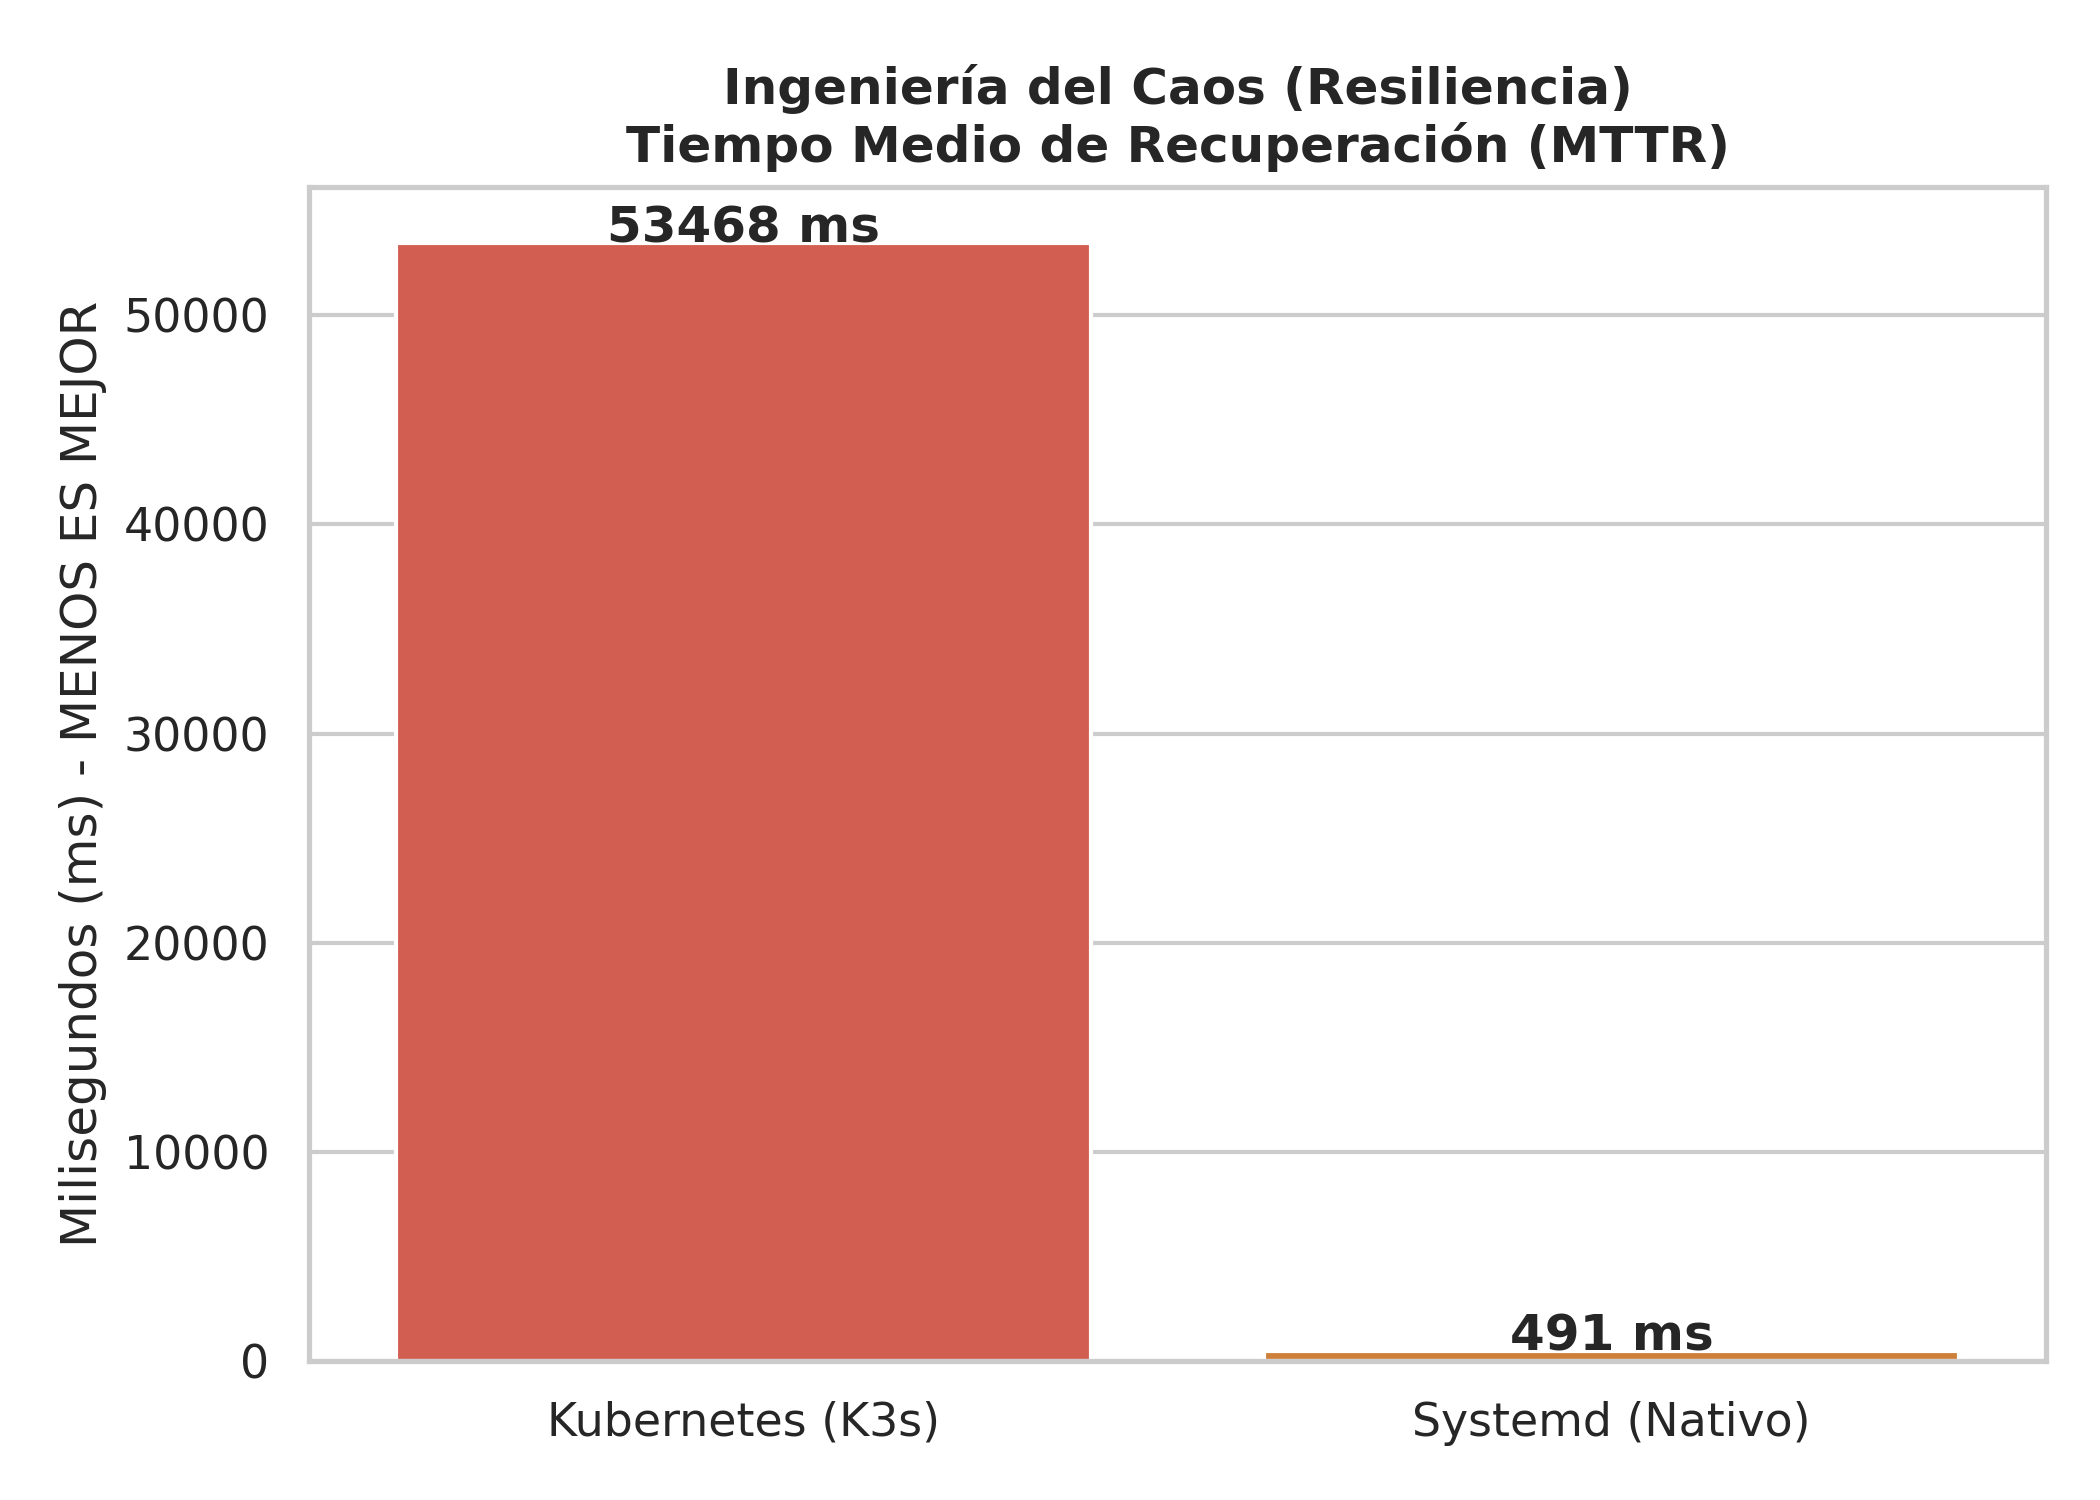
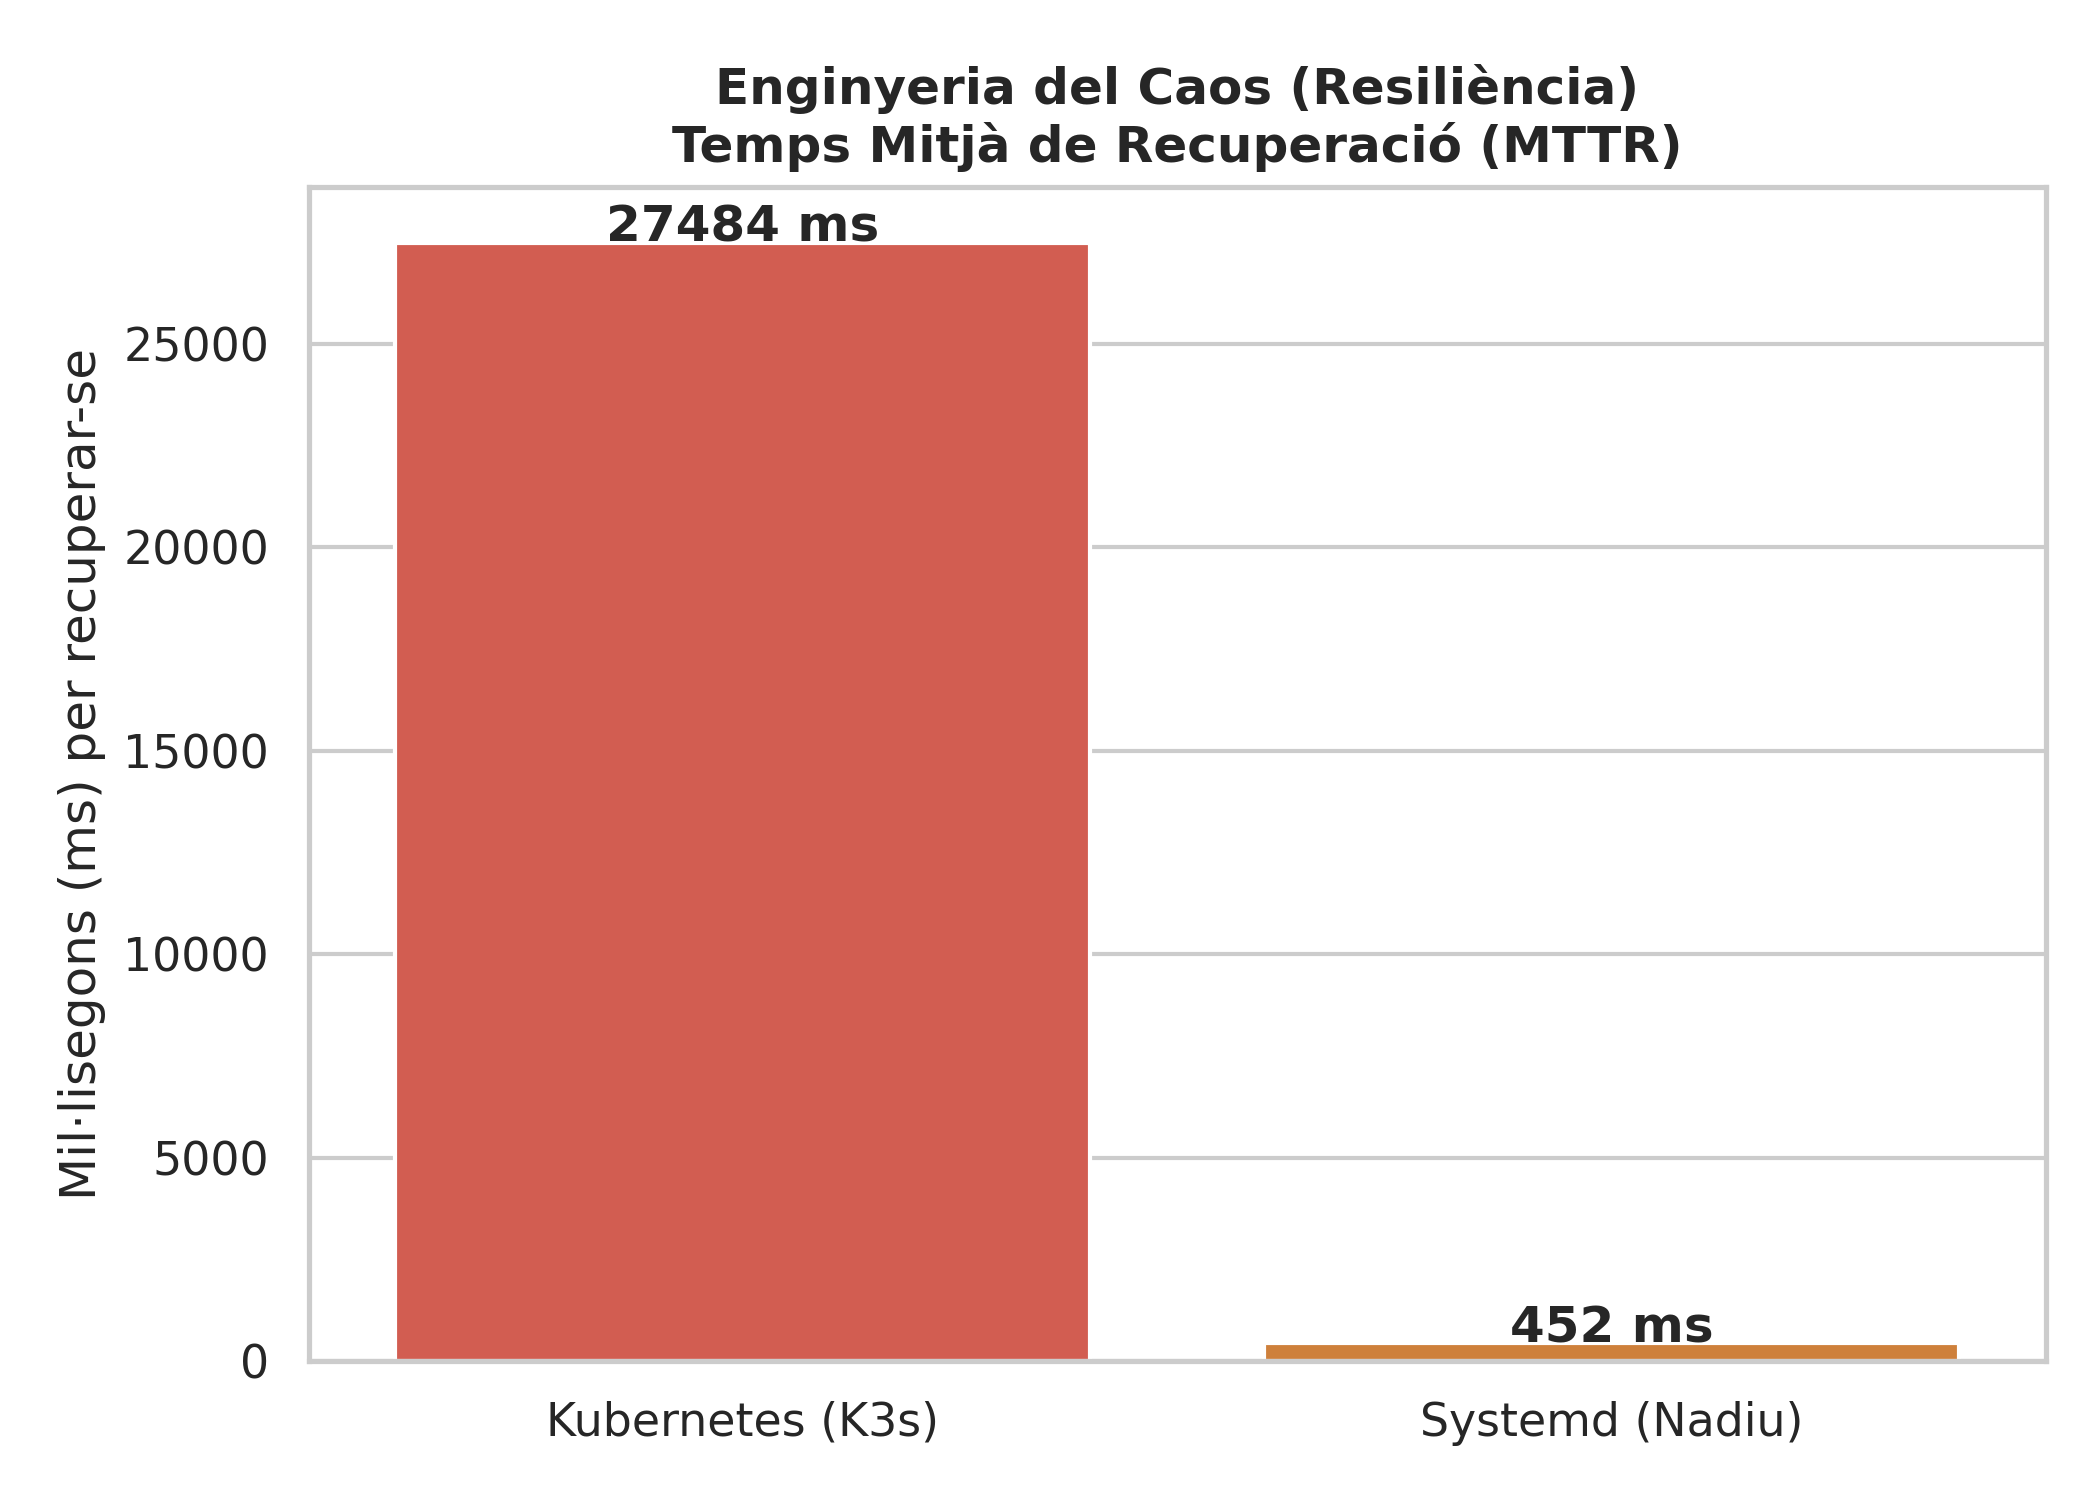
refactor: update benchmark results and visualizations for HTTP, gRPC, and ZeroMQ protocols

diff --git a/kubernetes/3-benchmarks-results/resultados-tablas-original.md b/kubernetes/3-benchmarks-results/resultados-tablas-original.md
@@ -1,90 +1,90 @@
 # Resultados Consolidados del Proyecto
 > **Nota:** Estas tablas representan la **media histórica total** de todas las ejecuciones almacenadas en el Data Lake (`resultados-globales.csv`).
 
-## Protocolo: 01-http-json (Basado en 5 tests históricos)
+## Protocolo: 01-http-json (Basado en 10 tests históricos)
 ### Infraestructura
 | Métrica | Valor Promedio |
 |---|---|
-| **T_deploy** | 104.84 s |
-| **Recuperación (MTTR)** | 1672.64 ms |
-| **CPU Reposo** | 1.10 % |
-| **RAM Reposo** | 851.10 MB |
+| **T_deploy** | 122.61 s |
+| **Recuperación (MTTR)** | 1606.99 ms |
+| **CPU Reposo** | 0.85 % |
+| **RAM Reposo** | 829.25 MB |
 
 ### Rendimiento de Red (Estrés)
 | Métrica | Valor Promedio |
 |---|---|
-| **T_Total** | 0.99 s |
-| **Throughput** | 2086.61 img/s |
-| **Latencia RTT** | 516.90 ms |
-| **T_Proc Worker** | 503.45 ms |
-| **RAM Máxima** | 337.30 MB |
-| **CPU Máxima** | 138.94 % |
+| **T_Total** | 1.02 s |
+| **Throughput** | 2015.11 img/s |
+| **Latencia RTT** | 538.51 ms |
+| **T_Proc Worker** | 525.76 ms |
+| **RAM Máxima** | 344.65 MB |
+| **CPU Máxima** | 137.55 % |
 | **Payload Red** | 15.59 MB |
 
 ---
 
-## Protocolo: 02-grpc-protobuf (Basado en 5 tests históricos)
+## Protocolo: 02-grpc-protobuf (Basado en 10 tests históricos)
 ### Infraestructura
 | Métrica | Valor Promedio |
 |---|---|
-| **T_deploy** | 131.58 s |
-| **Recuperación (MTTR)** | 1571.98 ms |
-| **CPU Reposo** | 1.00 % |
-| **RAM Reposo** | 849.00 MB |
-
-### Rendimiento de Red (Estrés)
-| Métrica | Valor Promedio |
-|---|---|
-| **T_Total** | 0.33 s |
-| **Throughput** | 6358.87 img/s |
-| **Latencia RTT** | 319.32 ms |
-| **T_Proc Worker** | 281.93 ms |
-| **RAM Máxima** | 392.79 MB |
-| **CPU Máxima** | 186.82 % |
-| **Payload Red** | 2.99 MB |
-
----
-
-## Protocolo: 03-zeromq-protobuf (Basado en 5 tests históricos)
-### Infraestructura
-| Métrica | Valor Promedio |
-|---|---|
-| **T_deploy** | 96.06 s |
-| **Recuperación (MTTR)** | 1643.34 ms |
-| **CPU Reposo** | 1.30 % |
-| **RAM Reposo** | 852.50 MB |
-
-### Rendimiento de Red (Estrés)
-| Métrica | Valor Promedio |
-|---|---|
-| **T_Total** | 0.31 s |
-| **Throughput** | 7033.38 img/s |
-| **Latencia RTT** | 263.85 ms |
-| **T_Proc Worker** | 201.72 ms |
-| **RAM Máxima** | 282.18 MB |
-| **CPU Máxima** | 194.28 % |
-| **Payload Red** | 2.99 MB |
-
----
-
-## Protocolo: 04-zeromq-messagepack (Basado en 5 tests históricos)
-### Infraestructura
-| Métrica | Valor Promedio |
-|---|---|
-| **T_deploy** | 137.91 s |
-| **Recuperación (MTTR)** | 53468.16 ms |
+| **T_deploy** | 135.09 s |
+| **Recuperación (MTTR)** | 26688.57 ms |
 | **CPU Reposo** | 0.80 % |
-| **RAM Reposo** | 852.00 MB |
+| **RAM Reposo** | 819.65 MB |
+
+### Rendimiento de Red (Estrés)
+| Métrica | Valor Promedio |
+|---|---|
+| **T_Total** | 0.34 s |
+| **Throughput** | 6356.45 img/s |
+| **Latencia RTT** | 323.57 ms |
+| **T_Proc Worker** | 289.91 ms |
+| **RAM Máxima** | 370.06 MB |
+| **CPU Máxima** | 178.39 % |
+| **Payload Red** | 2.99 MB |
+
+---
+
+## Protocolo: 03-zeromq-protobuf (Basado en 10 tests históricos)
+### Infraestructura
+| Métrica | Valor Promedio |
+|---|---|
+| **T_deploy** | 90.60 s |
+| **Recuperación (MTTR)** | 1604.90 ms |
+| **CPU Reposo** | 1.00 % |
+| **RAM Reposo** | 840.60 MB |
 
 ### Rendimiento de Red (Estrés)
 | Métrica | Valor Promedio |
 |---|---|
 | **T_Total** | 0.33 s |
-| **Throughput** | 6555.69 img/s |
-| **Latencia RTT** | 277.54 ms |
-| **T_Proc Worker** | 203.35 ms |
-| **RAM Máxima** | 275.12 MB |
-| **CPU Máxima** | 196.35 % |
+| **Throughput** | 6660.90 img/s |
+| **Latencia RTT** | 278.48 ms |
+| **T_Proc Worker** | 216.09 ms |
+| **RAM Máxima** | 284.07 MB |
+| **CPU Máxima** | 190.23 % |
+| **Payload Red** | 2.99 MB |
+
+---
+
+## Protocolo: 04-zeromq-messagepack (Basado en 10 tests históricos)
+### Infraestructura
+| Métrica | Valor Promedio |
+|---|---|
+| **T_deploy** | 145.16 s |
+| **Recuperación (MTTR)** | 27483.61 ms |
+| **CPU Reposo** | 0.80 % |
+| **RAM Reposo** | 834.40 MB |
+
+### Rendimiento de Red (Estrés)
+| Métrica | Valor Promedio |
+|---|---|
+| **T_Total** | 0.34 s |
+| **Throughput** | 6269.21 img/s |
+| **Latencia RTT** | 284.99 ms |
+| **T_Proc Worker** | 205.62 ms |
+| **RAM Máxima** | 280.90 MB |
+| **CPU Máxima** | 193.83 % |
 | **Payload Red** | 2.99 MB |
 
 ---

diff --git a/kubernetes/3-benchmarks-results/resultados-tablas.md b/kubernetes/3-benchmarks-results/resultados-tablas.md
@@ -67,24 +67,24 @@
 
 ---
 
-## Protocolo: 04-zeromq-messagepack (Basado en 10 tests históricos)
+## Protocolo: 04-zeromq-messagepack (Basado en 9 tests históricos)
 ### Infraestructura
 | Métrica | Valor Promedio |
 |---|---|
-| **T_deploy** | 145.16 s |
-| **Recuperación (MTTR)** | 1485.81 ms |
-| **CPU Reposo** | 0.80 % |
-| **RAM Reposo** | 834.40 MB |
+| **T_deploy** | 141.18 s |
+| **Recuperación (MTTR)** | 1487.28 ms |
+| **CPU Reposo** | 0.78 % |
+| **RAM Reposo** | 834.50 MB |
 
 ### Rendimiento de Red (Estrés)
 | Métrica | Valor Promedio |
 |---|---|
-| **T_Total** | 0.34 s |
-| **Throughput** | 6269.21 img/s |
-| **Latencia RTT** | 284.99 ms |
-| **T_Proc Worker** | 205.62 ms |
-| **RAM Máxima** | 280.90 MB |
-| **CPU Máxima** | 193.83 % |
+| **T_Total** | 0.35 s |
+| **Throughput** | 6035.84 img/s |
+| **Latencia RTT** | 290.69 ms |
+| **T_Proc Worker** | 205.31 ms |
+| **RAM Máxima** | 282.27 MB |
+| **CPU Máxima** | 193.51 % |
 | **Payload Red** | 2.99 MB |
 
 ---
